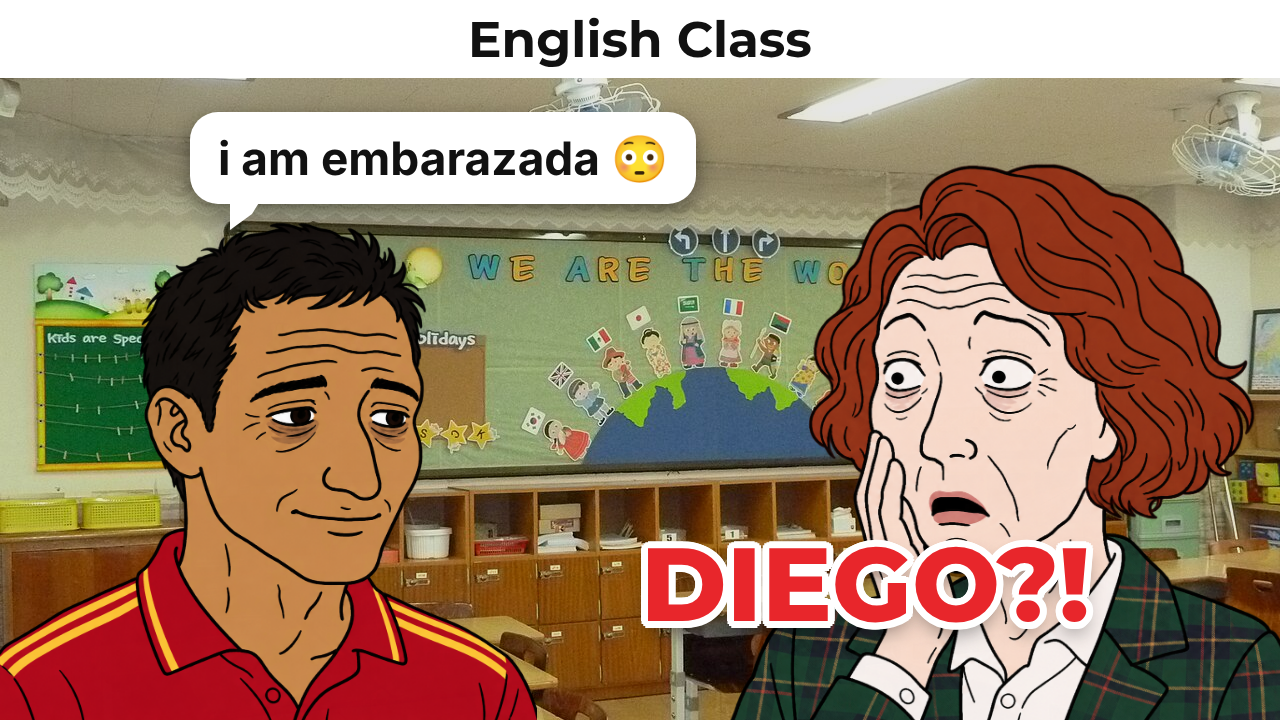
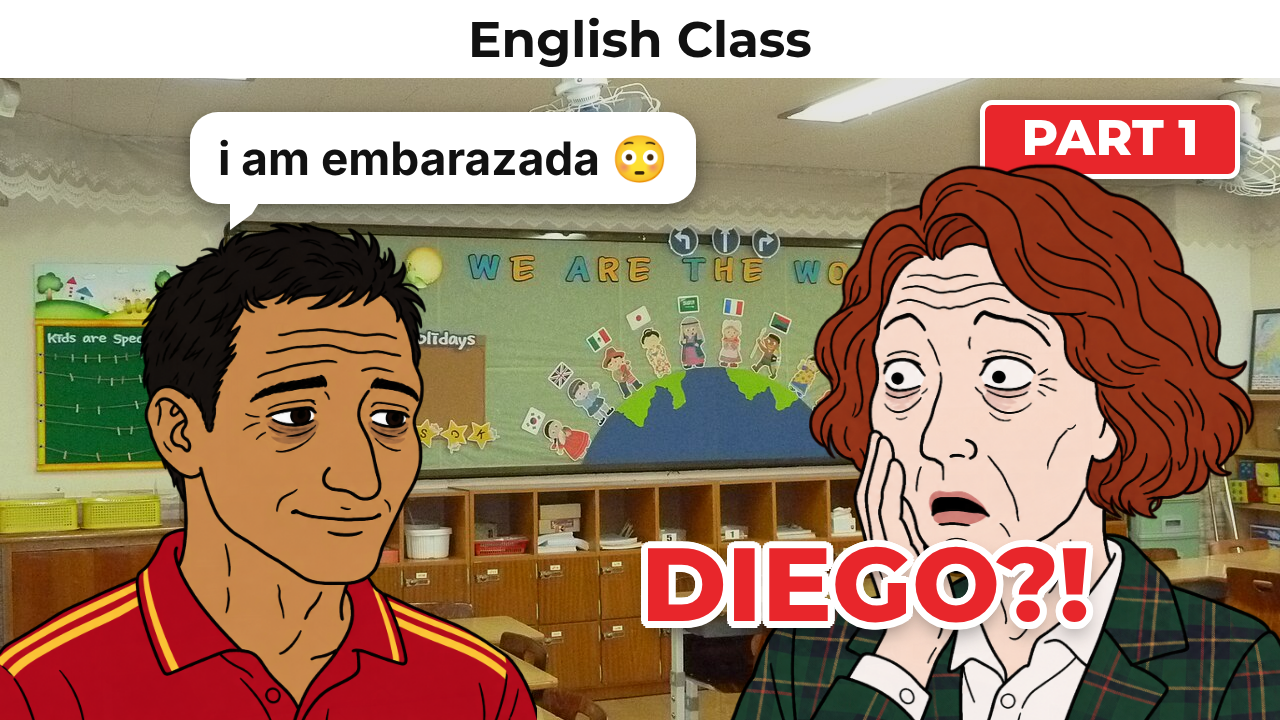
Teacher video is now Part 1 (title, PART 1 thumbnail label, file name)
Claude-Session: https://claude.ai/code/session_01JteZbjgJzANfm9zkD8PK4e

Changed region(s): [[0.75, 0.1222, 1.0, 0.275]]

diff --git a/lingo/blueprints/DISCORD_CHAT_COMEDY_BLUEPRINT.md b/lingo/blueprints/DISCORD_CHAT_COMEDY_BLUEPRINT.md
@@ -328,7 +328,7 @@ There are no Remotion components in this project. The renderer uses the same Pla
   - French "assister" = attend.
 - **Cast and sound:** the teacher is the straight man (silence). The students are chaos (default music). Principal Weber gets the "boss" track and makes the same "become" mistake (a twist callback).
 - **Ending:** "OFFLINE — 1" panel, then "she is very constipated" (callback).
-- **Final:** 1:31, 48 beats, 1920×1080, -16.5 LUFS. File: `lingo/videos/teaching_foreign_students_english_be_like.mp4` (title: "Teaching Foreign Students English be like…").
+- **Final:** 1:31, 48 beats, 1920×1080, -16.5 LUFS. File: `lingo/videos/teaching_foreign_students_english_be_like_part1.mp4` (title: "Teaching Foreign Students English be like…").
 - **Fixes from the review:**
   - long single lines were shrunk tiny, so they're now split into short lines, as in the reference;
   - a line ran off the frame during re-fit, so the zoom is now clamped to the frame width.

diff --git a/lingo/meta/class.md b/lingo/meta/class.md
@@ -1,12 +1,12 @@
-# YouTube metadata: Teaching Foreign Students English be like…
+# YouTube metadata: Teaching Foreign Students English be like… (Part 1)
 
 ## Title
-Teaching Foreign Students English be like…
+Teaching Foreign Students English be like… (Part 1)
 
 ## Description
 When your English class group chat is full of false friends: words that look English but mean something completely different. A German student wants to "become" his homework, a Spanish student is "constipated" (he has a cold), and a "gift" in German is poison. Can Ms. Parker survive one morning?
 
-Which false friend from YOUR language should be in the next one? Tell us in the comments 👇
+Which false friend from YOUR language should be in Part 2? Tell us in the comments 👇
 
 0:00 Hans wants to "become" his homework
 0:13 Diego is "constipated"
